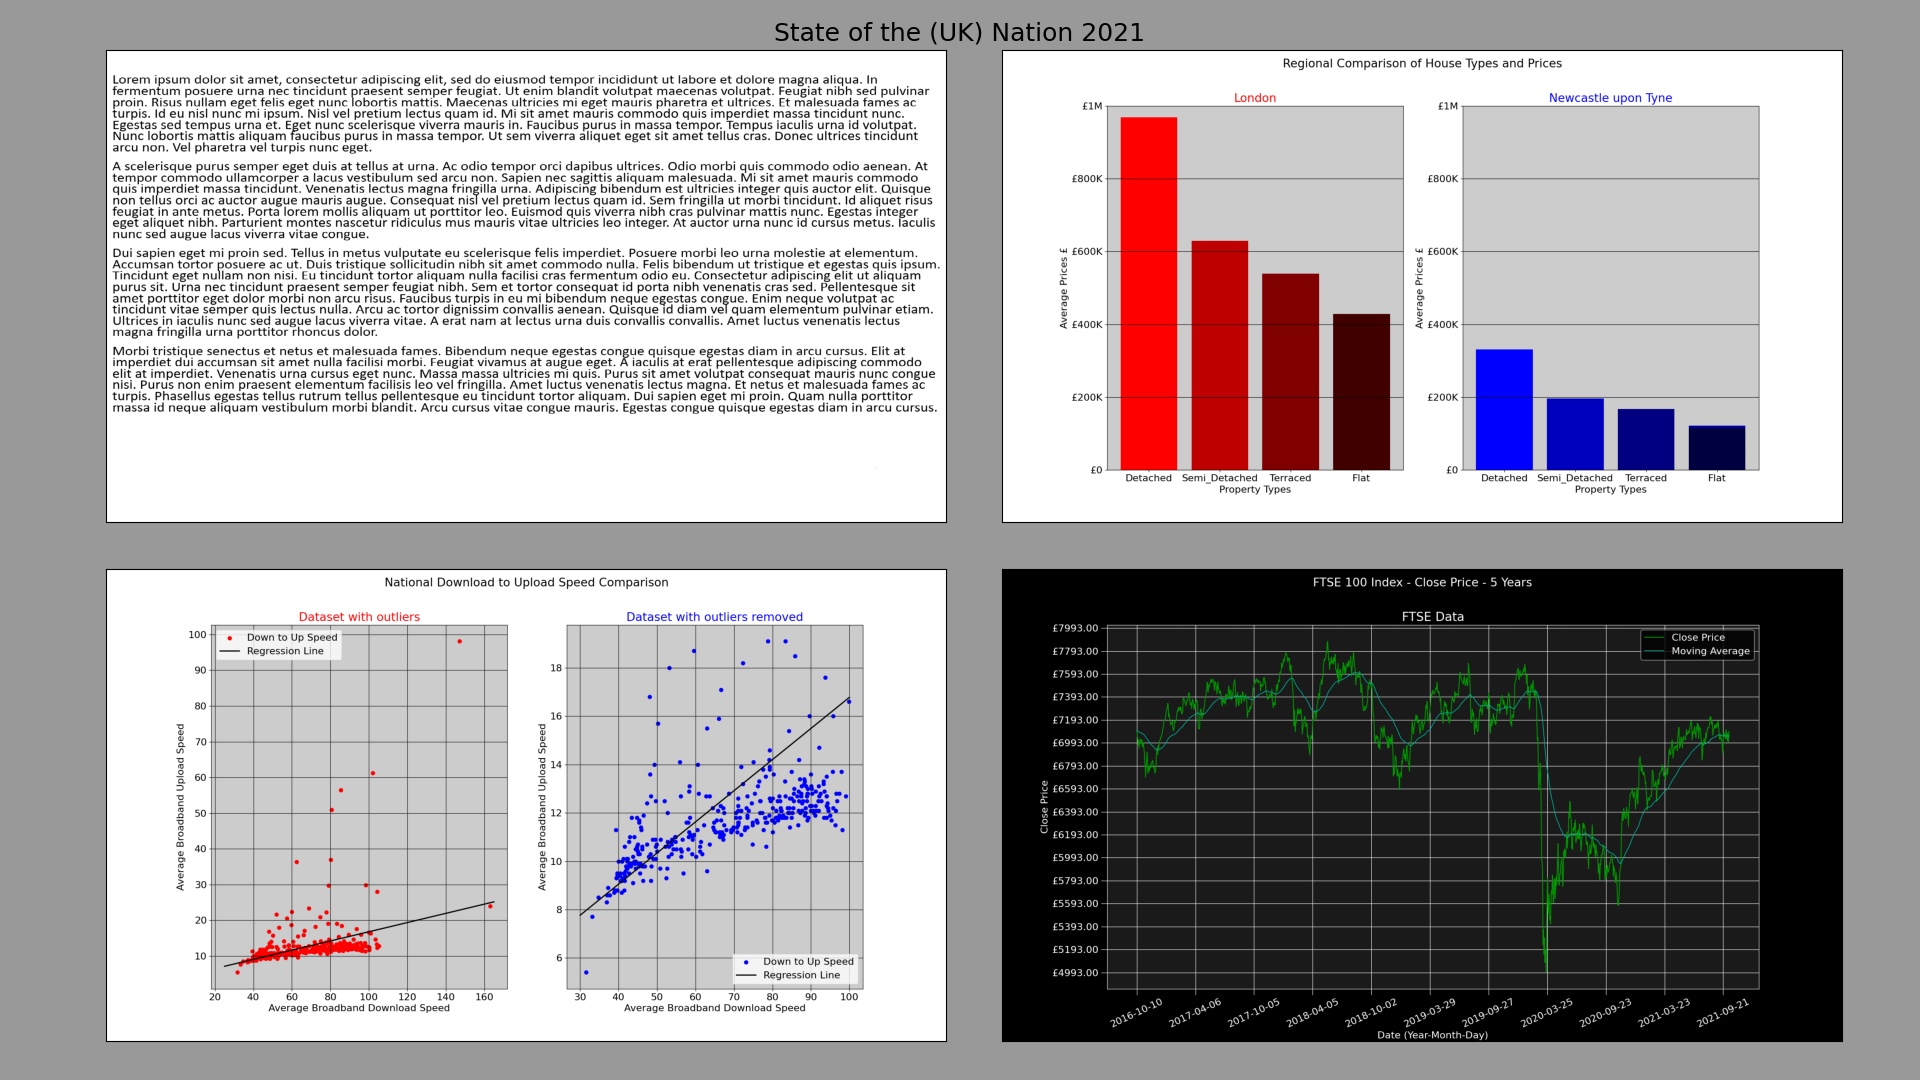
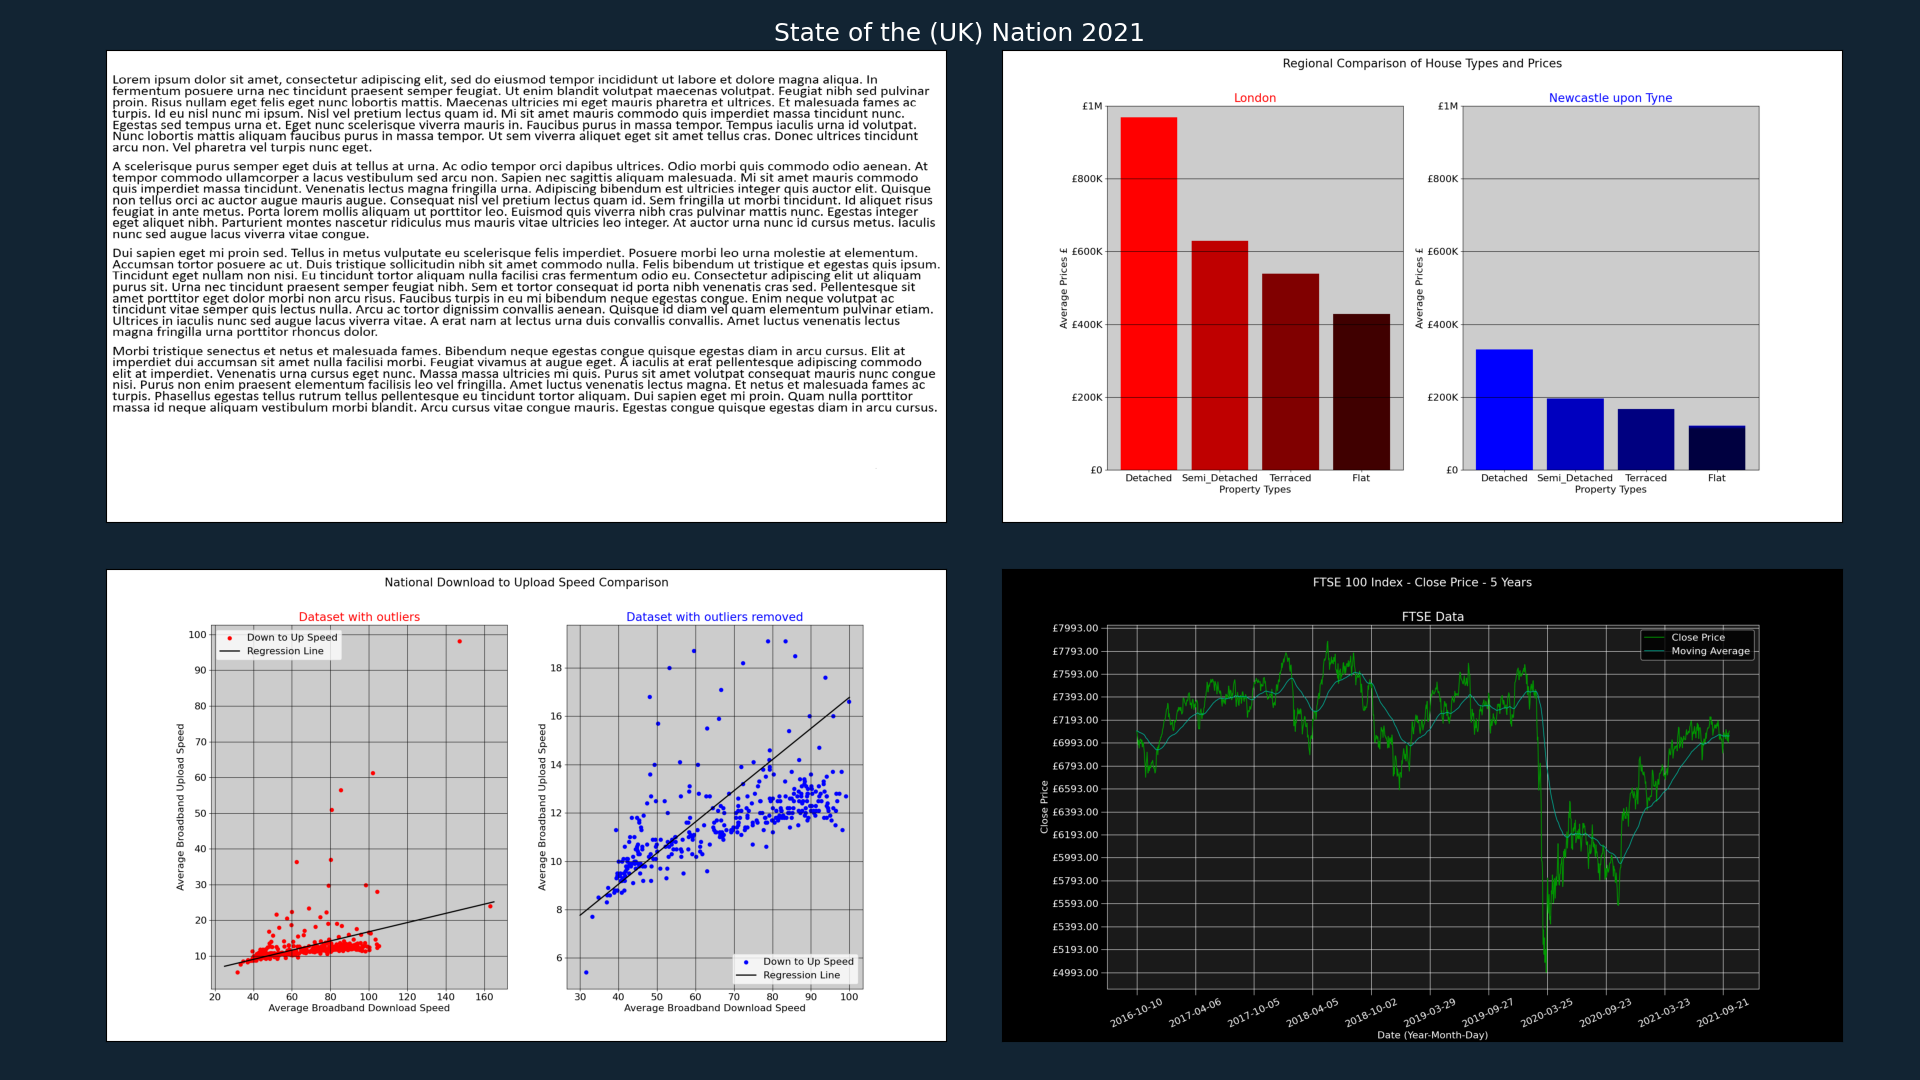
4 panel face color modified

Changed region(s): [[0.0, 0.0, 1.0, 1.0]]

diff --git a/main.py b/main.py
@@ -12,8 +12,8 @@ def collage(showplt=True, savepltimg=False):
     ## Configure main figure and subplots
     plt.rcParams.update({'font.size': 16})
     fig, (r1, r2) = plt.subplots(2, 2, figsize=(19.2, 10.8),
-                                 facecolor=(0.60, 0.60, 0.60, 1))
-    fig.suptitle("State of the (UK) Nation 2021", size=18)
+                                 facecolor=(0.07, 0.14, 0.2, 1))
+    fig.suptitle("State of the (UK) Nation 2021", size=18, color='white')
     fig.tight_layout(pad=0.4)
     plt.subplots_adjust(wspace=-0.05)
     plts = [r1[0], r1[1], r2[0], r2[1]]
